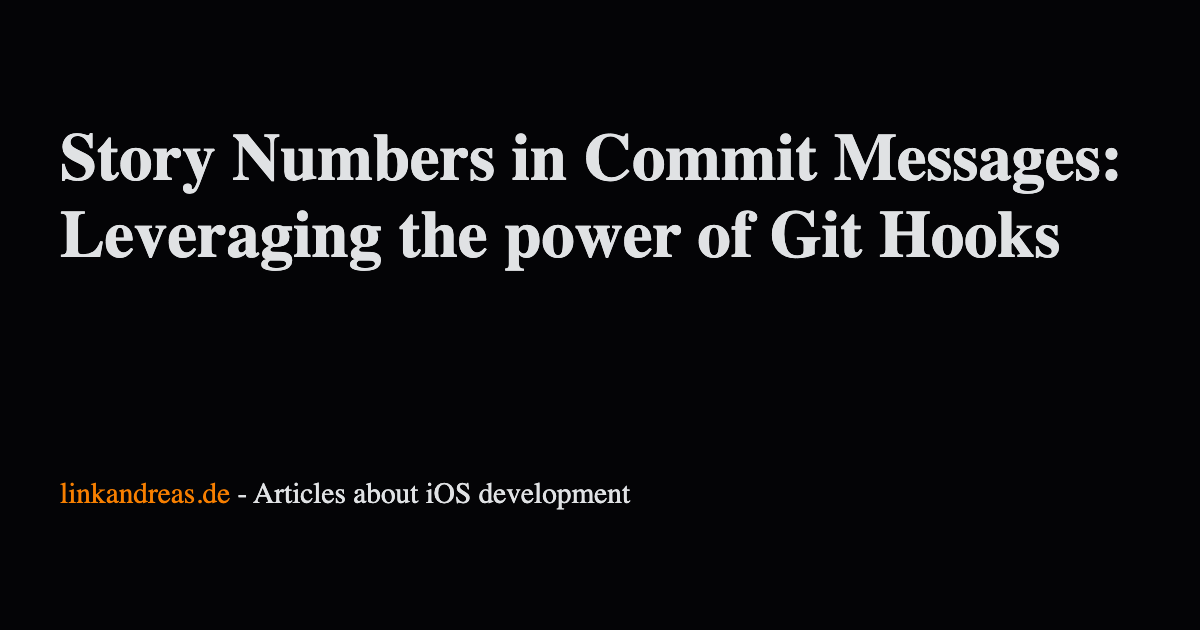
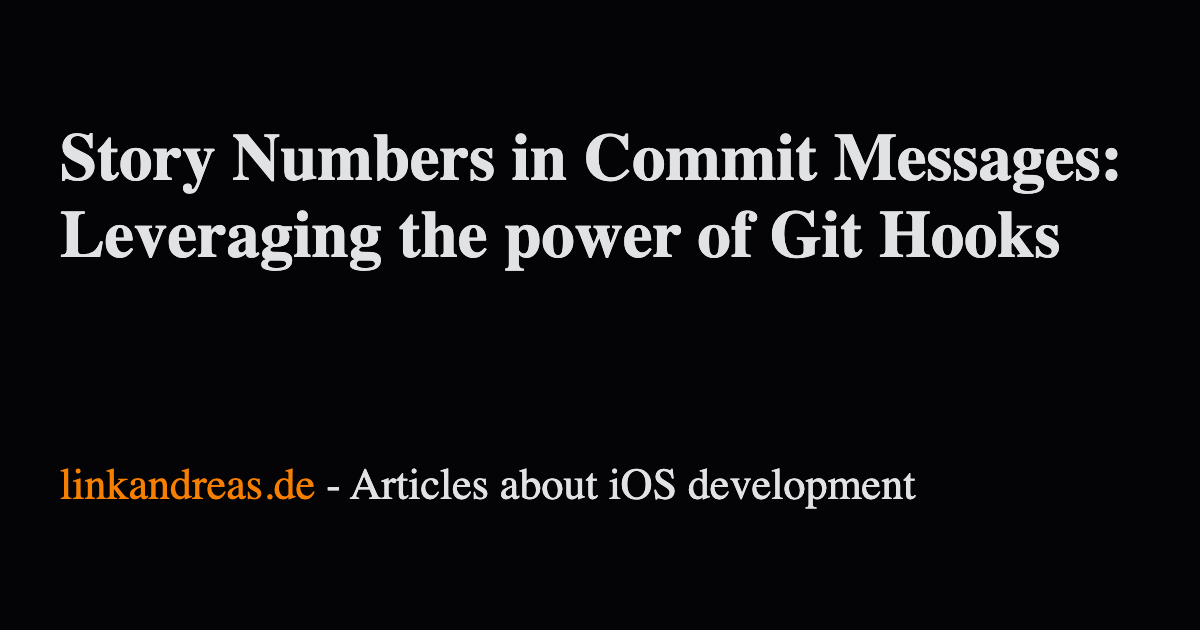
Increase font size

Changed region(s): [[0.0308, 0.7238, 0.7708, 0.8143]]

diff --git a/src/pages/articles/[id].js b/src/pages/articles/[id].js
@@ -149,7 +149,7 @@ function getLinkPreviewHTML(title) {
     }
 
     .contentContainer p {
-      font-size: 22pt;
+      font-size: 33pt;
     }
 
     .templateContainer h1 {
